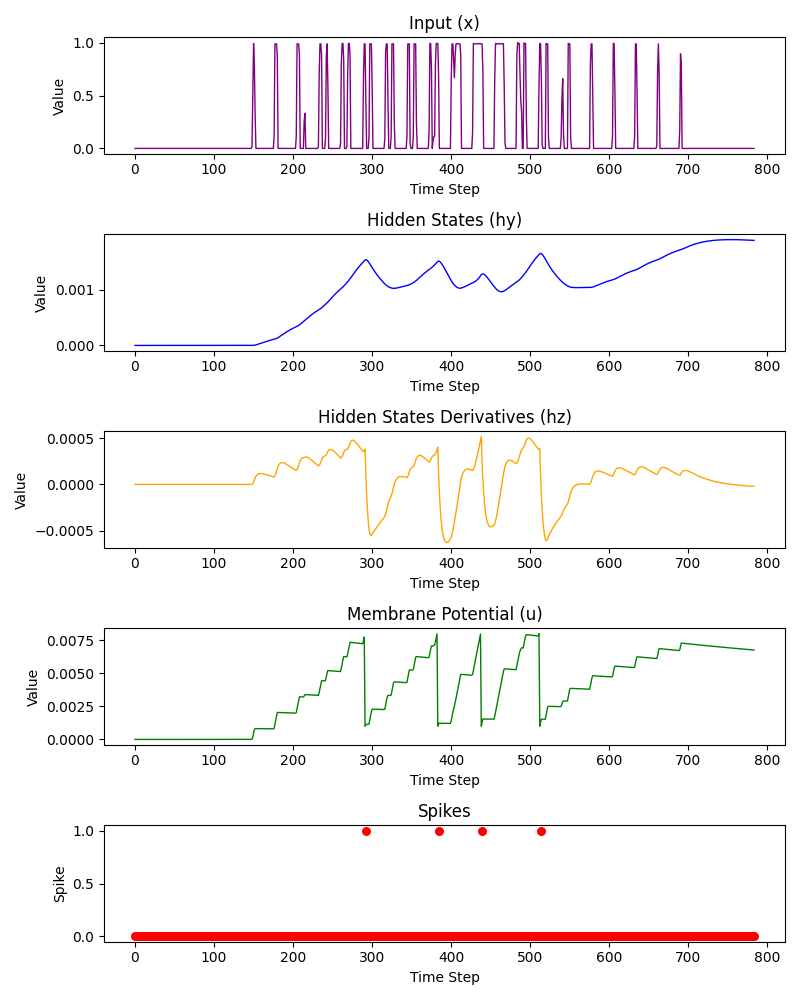
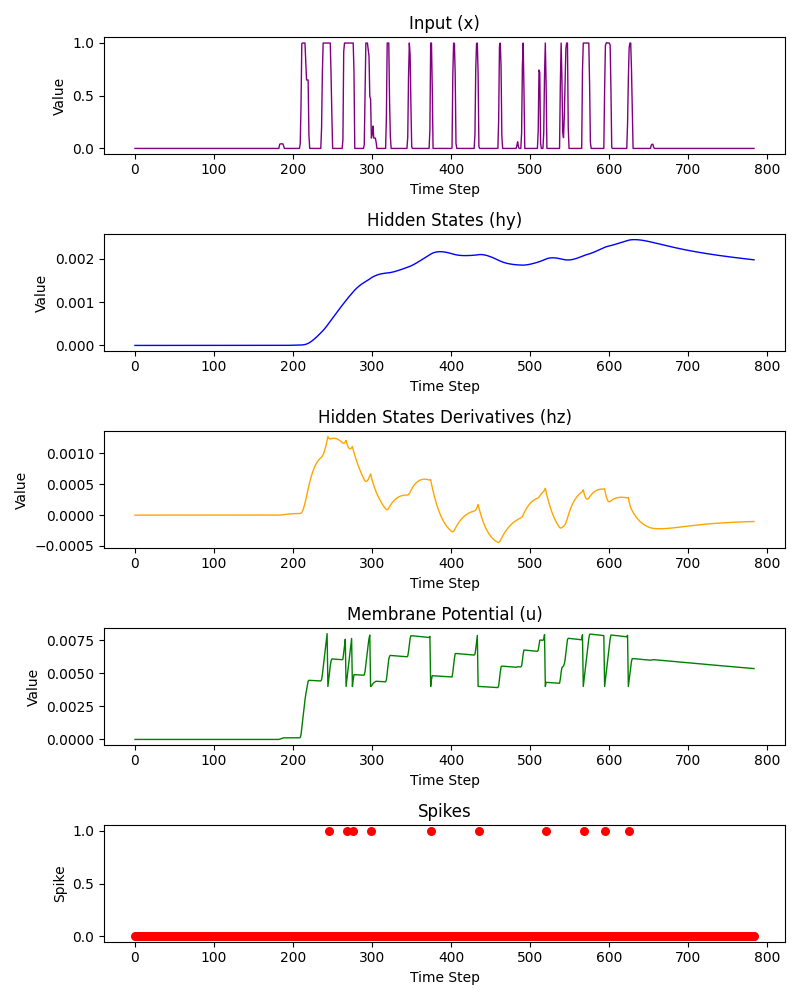
commit

diff --git a/spiking_arch/fine_tuning_smnist.py b/spiking_arch/fine_tuning_smnist.py
@@ -96,10 +96,10 @@ param_grid = {
     # "epsilon": [4.5, 4.9],  # Range of epsilon values
     # "rho": [0.9, 0.99],  # Spectral radius
     # "inp_scaling": [0.8, 1.2],  # Input scaling
-    "threshold": [0.008, 0.009, 0.01],
+    "threshold": [0.008, 0.009], #, 0.01
     "resistance": [3.0, 5.0, 7.0],
     "capacity": [3e-3, 5e-3, 7e-3],
-    "reset": [0.001, 0.002, 0.005] # initial membrane potential 
+    "reset": [0.001, 0.004] # initial membrane potential 
 }
 
 # Convert grid to list of combinations
@@ -160,8 +160,8 @@ for param_set in tqdm(param_combinations, desc="Grid Search"):
         # (params["epsilon"] - args.epsilon_range / 2.0, params["epsilon"] + args.epsilon_range / 2.0),
         # params["rho"],
         # params["inp_scaling"],
-        rho=args.rho,
-        inp_scaling=args.inp_scaling,
+        args.rho,
+        args.inp_scaling,
         params["threshold"],
         params["resistance"],
         params["capacity"],        
@@ -169,7 +169,7 @@ for param_set in tqdm(param_combinations, desc="Grid Search"):
         topology=args.topology,
         sparsity=args.sparsity,
         reservoir_scaler=args.reservoir_scaler,
-        device=device,
+        device=device
     ).to(device)
 
     # Train and validate the model

diff --git a/spiking_arch/smnist_fp.py b/spiking_arch/smnist_fp.py
@@ -90,10 +90,10 @@ parser.add_argument(
     help="Scaler in case of ring/band/toeplitz reservoir",
 )
 
-# parser.add_argument("--threshold", type=float, default=0.008, help="")
-# parser.add_argument("--resistance", type=float, default=5.0, help="ESN input scaling")
-# parser.add_argument("--capacity", type=float, default=5.3, help="ESN input scaling")
-# parser.add_argument("--reset", type=float, default=1.0, help="ESN input scaling")
+parser.add_argument("--threshold", type=float, default=0.008, help="")
+parser.add_argument("--resistance", type=float, default=7.0, help="ESN input scaling")
+parser.add_argument("--capacity", type=float, default=0.005, help="ESN input scaling")
+parser.add_argument("--reset", type=float, default=0.004, help="ESN input scaling")
 
 
 args = parser.parse_args()
@@ -199,7 +199,10 @@ for i in range(args.trials):
             args.rho,
             args.inp_scaling,
             #add last things here
-            args.
+            args.threshold,
+            args.resistance,
+            args.capacity,
+            args.reset,
             topology=args.topology,
             sparsity=args.sparsity,
             reservoir_scaler=args.reservoir_scaler,

diff --git a/spiking_arch/snn_utils.py b/spiking_arch/snn_utils.py
@@ -133,7 +133,7 @@ def acc_table(param_combinations, accuracies, resultroot):
         accuracies (list of float): List of accuracies corresponding to the parameter combinations.
     """
     # Create a DataFrame from parameter combinations and accuracies
-    param_names = ["dt", "rho", "inp_scaling", "threshold", "resistance", "capacity", "reset"]
+    param_names = ["dt", "threshold", "resistance", "capacity", "reset"] #"rho", "inp_scaling",
     data = [list(comb) + [acc] for comb, acc in zip(param_combinations, accuracies)]
     df = pd.DataFrame(data, columns=param_names + ["Accuracy"])
 
